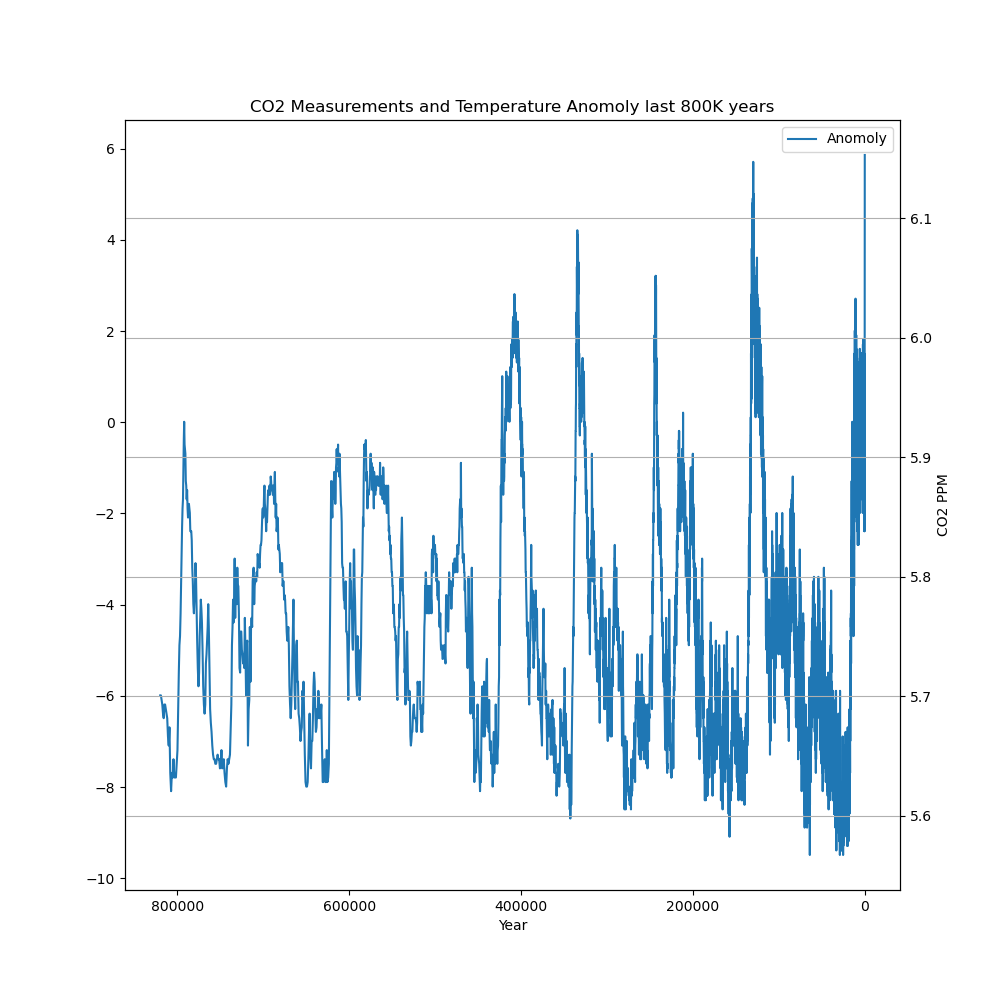
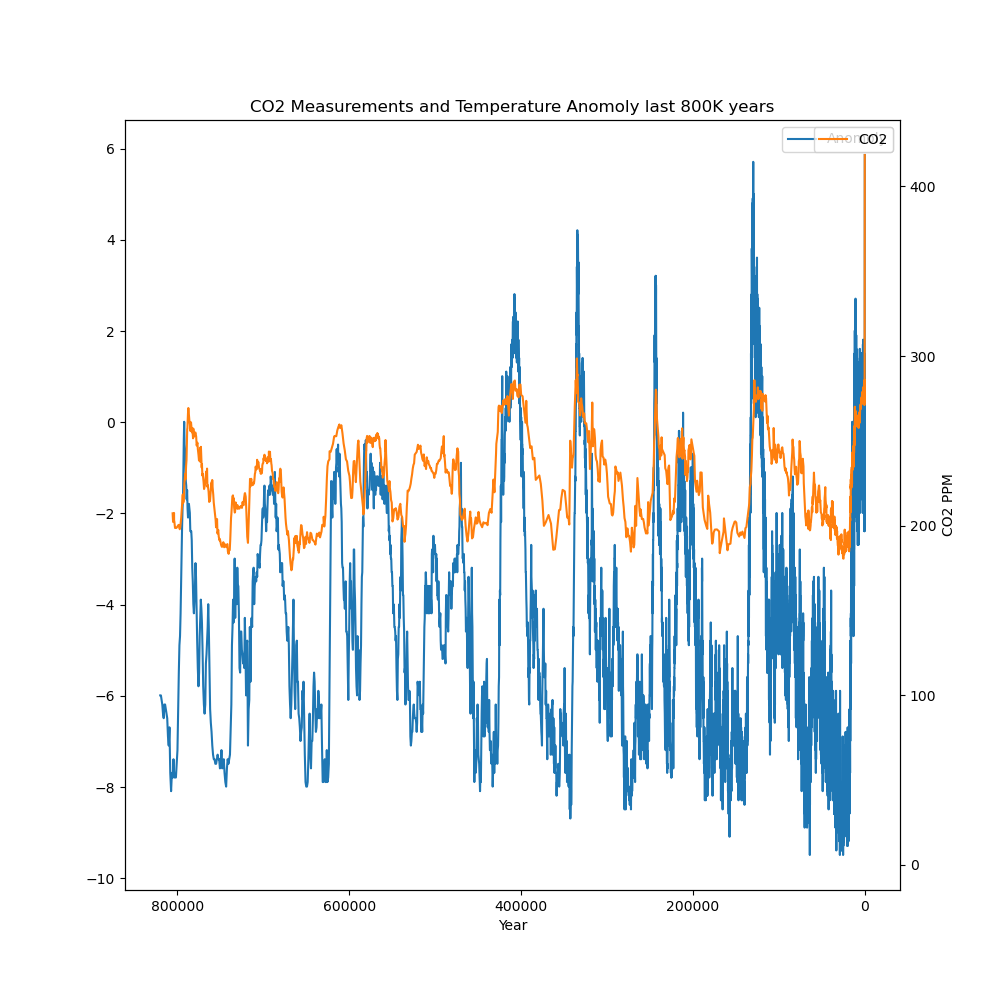
Analysis - Lead and Lag

diff --git a/README.md b/README.md
@@ -68,3 +68,11 @@ https://www.datacamp.com/tutorial/line-plots-in-matplotlib-with-python
 https://www.geeksforgeeks.org/convert-excel-to-csv-in-python/
 
 https://stackoverflow.com/questions/14762181/adding-a-y-axis-label-to-secondary-y-axis-in-matplotlib
+
+https://www.artobatours.com/articles/archaeology/bp-bc-bce-ad-ce-cal-mean/#:~:text=The%20'present'%20in%20BP%20is,and%20upper%20case%20means%20calibrated.
+
+https://desktop.arcgis.com/en/arcmap/latest/map/time/what-is-temporal-data.htm#:~:text=Temporal%20data%20is%20simply%20data,demographic%20trends%2C%20and%20so%20on
+
+https://gsg.uottawa.ca/data/haver/06-customizegraphs/lead-lag.htm#:~:text=Lead%20and%20Lag%20is%20used,and%20its%20impact%20on%20another.&text=A%20change%20in%20the%20price,for%20energy%2C%20just%20not%20immediately
+
+chrome-extension://efaidnbmnnnibpcajpcglclefindmkaj/https://gml.noaa.gov/outreach/info_activities/pdfs/PSA_co2_and_temperature.pdf
